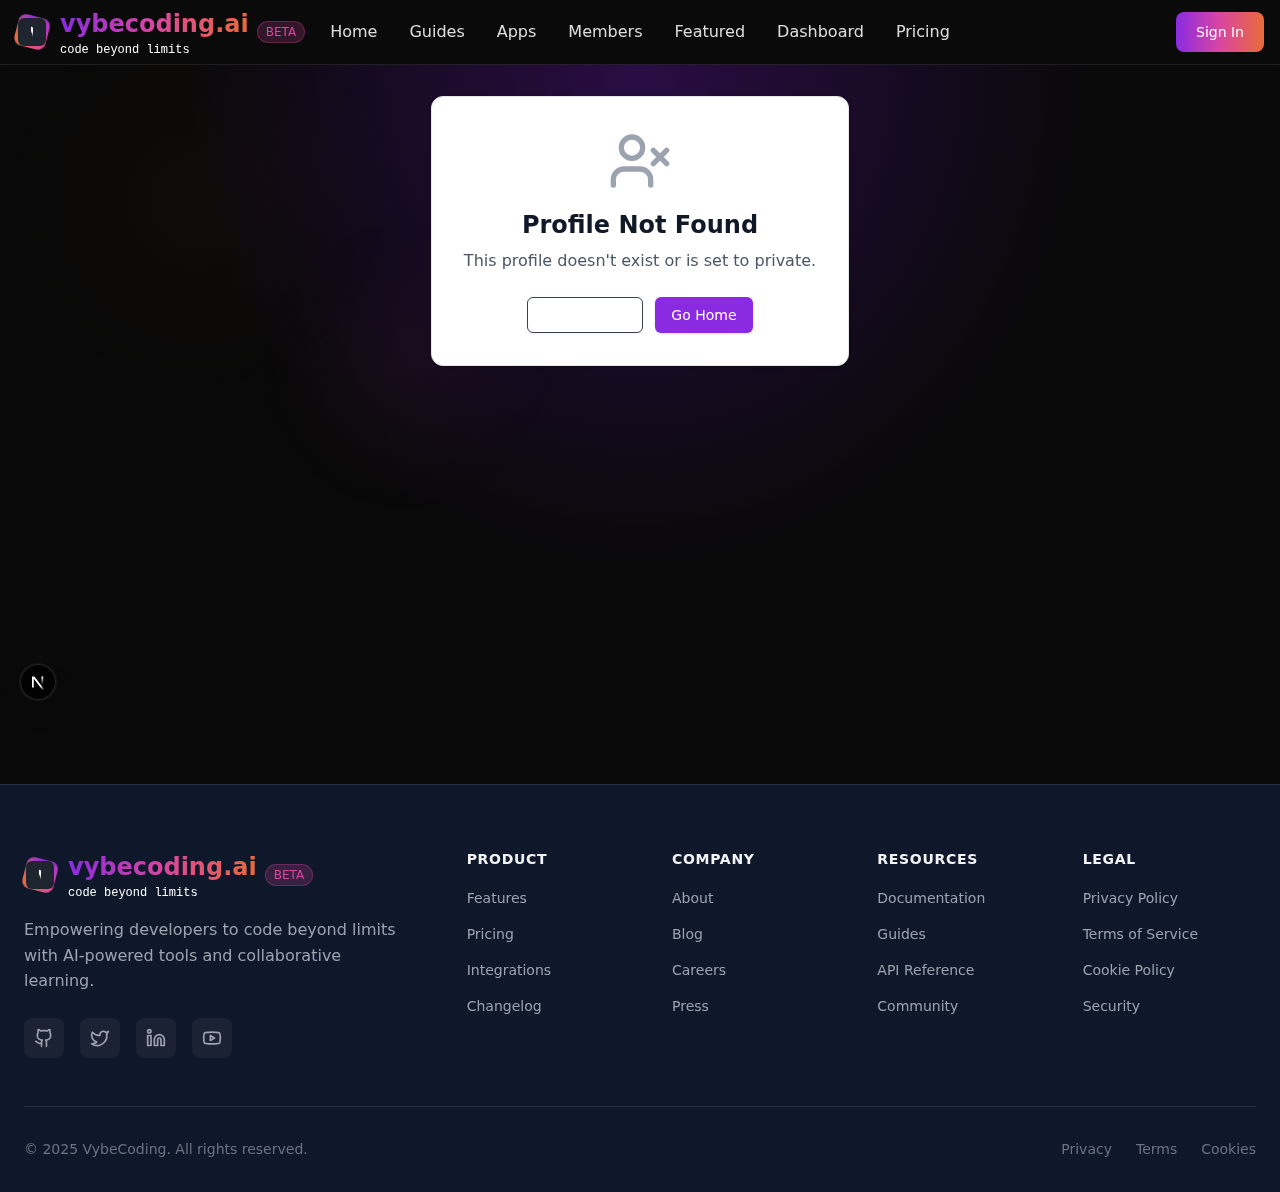
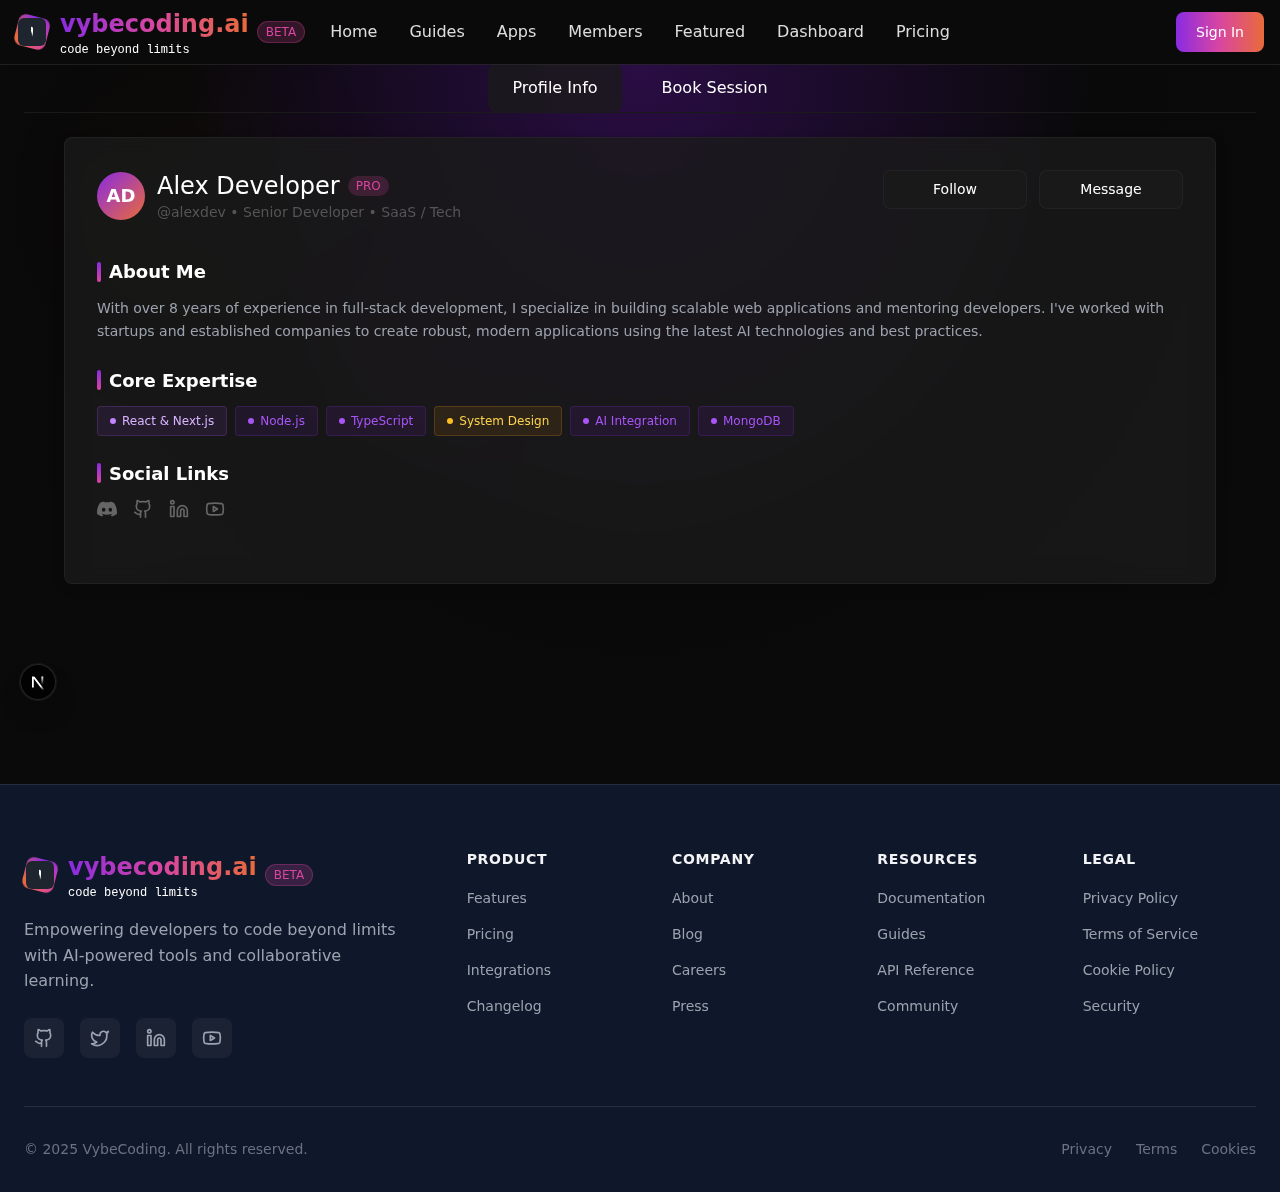
claude-04-[7/31 07:27PM]: modify {{filePath}} [MEDIUM:4 files]

diff --git a/app/(main)/profile/[username]/page.tsx b/app/(main)/profile/[username]/page.tsx
@@ -11,6 +11,7 @@ import { Card } from "@/components/ui/card";
 import { UserX, Lock, ArrowLeft } from "lucide-react";
 import { ProfileInfoTab } from "@/components/profile/ProfileInfoTab";
 import { ProfileBookingTab } from "@/components/profile/ProfileBookingTab";
+import { getDemoMember } from "@/lib/demo-data/members";
 
 interface ProfilePageProps {
   params: Promise<{ username: string }>;
@@ -33,9 +34,13 @@ export default function ProfilePage({ params }: ProfilePageProps) {
   const profileUser = useQuery(api.users.getUserByUsername, 
     username ? { username } : "skip"
   );
+  
+  // Use demo data if no real user found
+  const demoUser = username ? getDemoMember(username) : null;
+  const userData = profileUser || demoUser;
 
   // Check if this is the current user's own profile
-  const isOwnProfile = currentUser && profileUser && currentUser.id === profileUser.clerkId;
+  const isOwnProfile = currentUser && userData && currentUser.id === userData.clerkId;
 
   // Loading state
   if (!username || profileUser === undefined) {
@@ -67,7 +72,7 @@ export default function ProfilePage({ params }: ProfilePageProps) {
   }
 
   // Profile not found or private
-  if (profileUser === null) {
+  if (userData === null) {
     return (
       <div className="page-container nebula-background">
         <div className="nebula-middle"></div>
@@ -107,7 +112,7 @@ export default function ProfilePage({ params }: ProfilePageProps) {
   }
 
   // Check if profile is members-only and user is not authenticated
-  if (profileUser.profileVisibility === "members-only" && !currentUser) {
+  if (userData.profileVisibility === "members-only" && !currentUser) {
     return (
       <div className="page-container nebula-background">
         <div className="nebula-middle"></div>
@@ -175,13 +180,13 @@ export default function ProfilePage({ params }: ProfilePageProps) {
         <div className="profile-tab-contents flex-1">
           {activeTab === 'info' && (
             <ProfileInfoTab 
-              user={profileUser}
+              user={userData}
               isOwnProfile={!!isOwnProfile}
             />
           )}
           {activeTab === 'booking' && (
             <ProfileBookingTab 
-              user={profileUser}
+              user={userData}
             />
           )}
         </div>

diff --git a/__tests__/debug/complete-profile-flow.test.ts b/__tests__/debug/complete-profile-flow.test.ts
@@ -1,0 +1,57 @@
+import { test, expect } from '@playwright/test';
+
+test.describe('Complete Profile Flow', () => {
+  test('navigate from members page to profile and verify content', async ({ page }) => {
+    // Navigate to members page
+    await page.goto('http://localhost:3000/members');
+    
+    // Wait for member cards
+    await page.waitForSelector('[class*="cursor-pointer"]', {
+      timeout: 10000
+    });
+    
+    // Find Alex Chen's card
+    const alexCard = page.locator('text=Alex Chen').first();
+    const cardExists = await alexCard.count() > 0;
+    
+    console.log('Alex Chen card found:', cardExists);
+    
+    if (cardExists) {
+      // Get the parent card element and click it
+      const parentCard = alexCard.locator('xpath=ancestor::div[contains(@class, "cursor-pointer")]').first();
+      await parentCard.click();
+      
+      // Wait for navigation
+      await page.waitForURL('**/profile/**', { timeout: 5000 });
+      
+      // Verify we're on the profile page
+      const currentUrl = page.url();
+      console.log('Navigated to:', currentUrl);
+      expect(currentUrl).toContain('/profile/alexchen');
+      
+      // Wait for profile content to load
+      await page.waitForSelector('.profile-tab', { timeout: 5000 });
+      
+      // Verify profile elements
+      const hasProfileInfo = await page.locator('text=Profile Info').count() > 0;
+      const hasBookSession = await page.locator('text=Book Session').count() > 0;
+      const hasAboutMe = await page.locator('text=About Me').count() > 0;
+      
+      console.log('Profile elements:', {
+        hasProfileInfo,
+        hasBookSession,
+        hasAboutMe
+      });
+      
+      // Take final screenshot
+      await page.screenshot({ 
+        path: '__tests__/debug/screenshots/complete-flow-profile.png',
+        fullPage: true 
+      });
+      
+      // Verify we have profile content
+      expect(hasProfileInfo).toBe(true);
+      expect(hasBookSession).toBe(true);
+    }
+  });
+});
